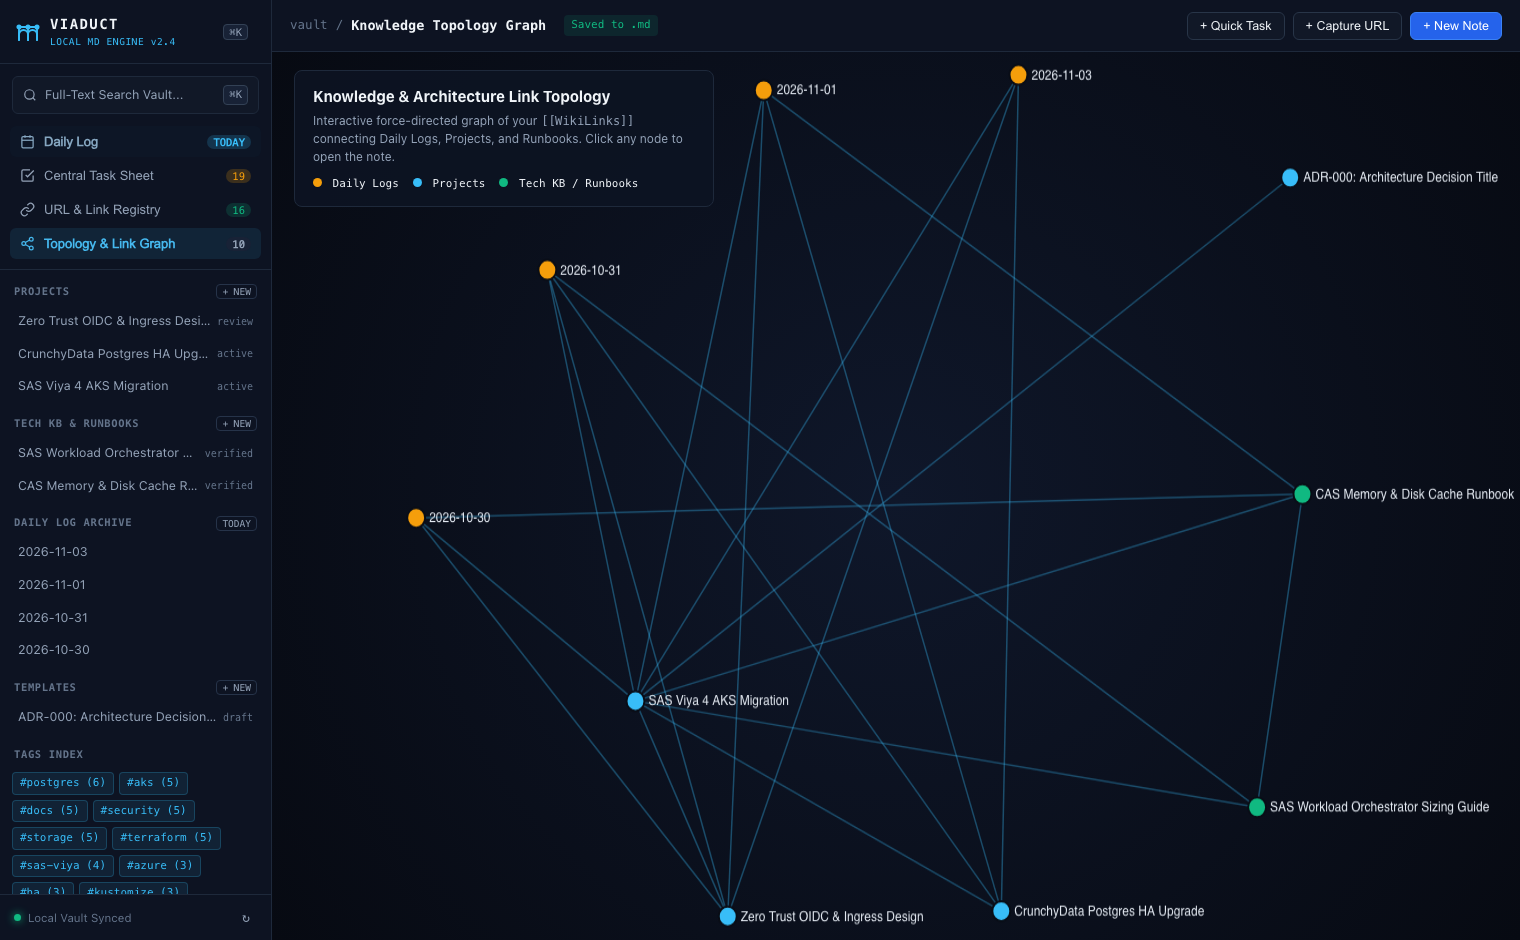
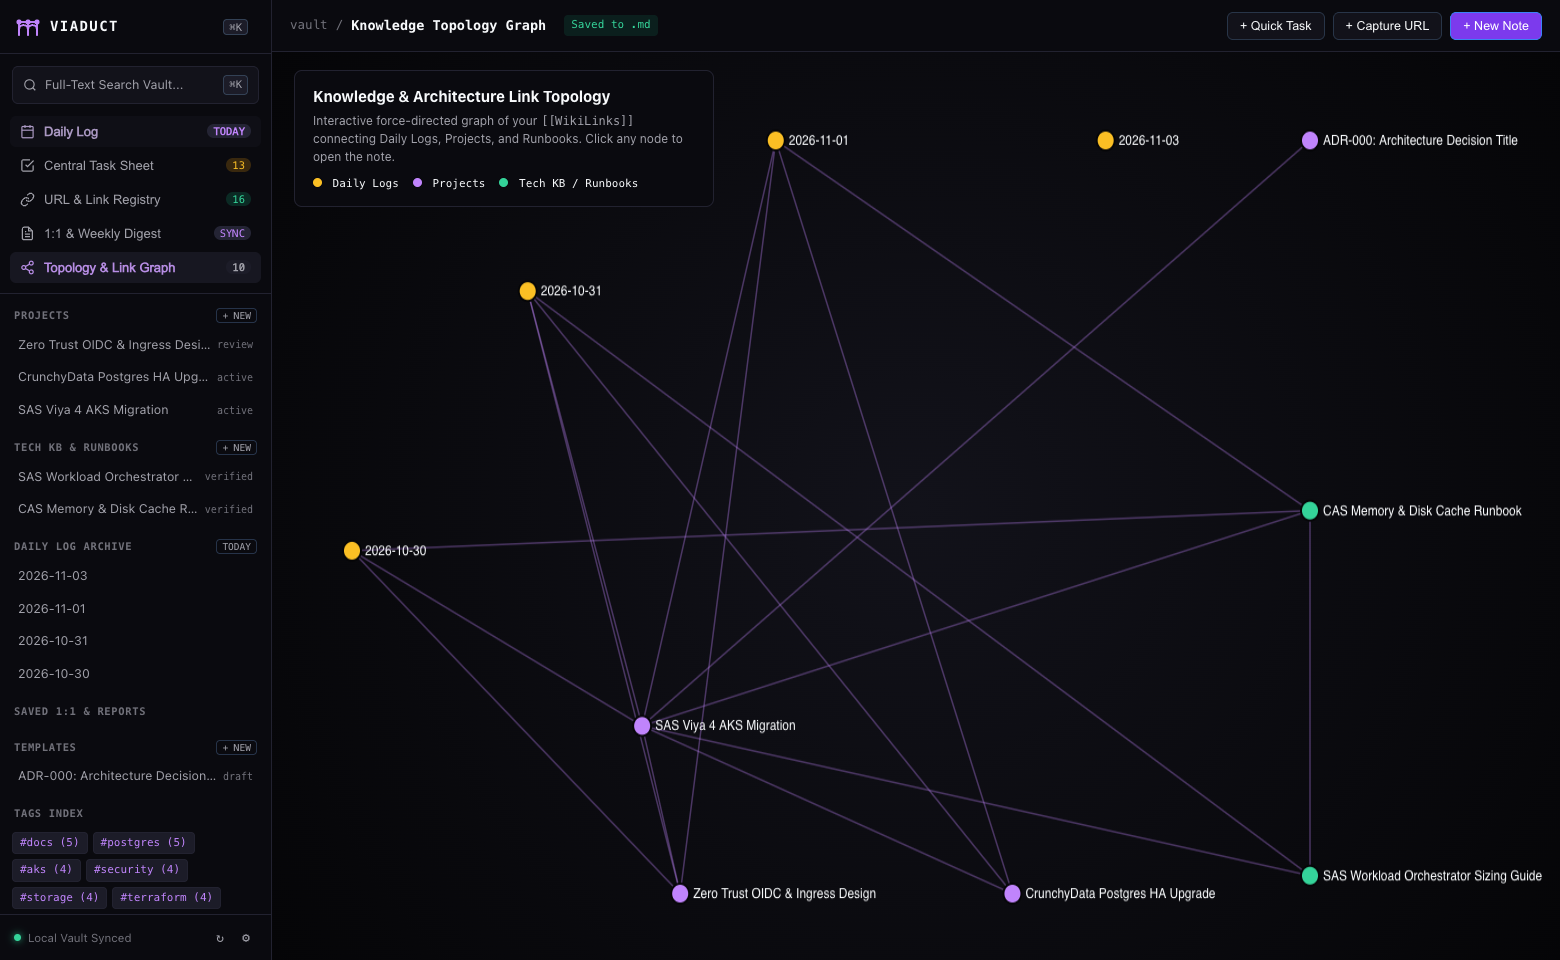
Update Knowledge Topology Graph theme colors, bounds, and screenshot

diff --git a/static/app.js b/static/app.js
@@ -1069,26 +1069,37 @@ async function loadGraphView() {
       e.target.vy -= fy;
     });
 
-    // Center gravity
+    // Center gravity & viewport bounds
     nodes.forEach((n) => {
-      n.vx += (canvas.width / 2 - n.x) * 0.005;
-      n.vy += (canvas.height / 2 - n.y) * 0.005;
+      n.vx += (canvas.width / 2 - n.x) * 0.009;
+      n.vy += (canvas.height / 2 - n.y) * 0.009;
       n.x += n.vx * 0.4;
       n.y += n.vy * 0.4;
       n.vx *= 0.75;
       n.vy *= 0.75;
+      n.x = Math.max(80, Math.min(canvas.width - 250, n.x));
+      n.y = Math.max(80, Math.min(canvas.height - 60, n.y));
     });
 
     // Render
     ctx.clearRect(0, 0, canvas.width, canvas.height);
 
+    const cs = getComputedStyle(document.documentElement);
+    const colAccent = cs.getPropertyValue("--accent-cyan").trim() || "#c084fc";
+    const colAmber = cs.getPropertyValue("--accent-amber").trim() || "#fbbf24";
+    const colEmerald = cs.getPropertyValue("--accent-emerald").trim() || "#34d399";
+    const colBg = cs.getPropertyValue("--bg-root").trim() || "#050507";
+    const colText = cs.getPropertyValue("--text-primary").trim() || "#f8fafc";
+
     edges.forEach((e) => {
       ctx.beginPath();
       ctx.moveTo(e.source.x, e.source.y);
       ctx.lineTo(e.target.x, e.target.y);
-      ctx.strokeStyle = "rgba(56, 189, 248, 0.35)";
+      ctx.strokeStyle = colAccent;
+      ctx.globalAlpha = 0.35;
       ctx.lineWidth = 1.5;
       ctx.stroke();
+      ctx.globalAlpha = 1.0;
     });
 
     nodes.forEach((n) => {
@@ -1096,16 +1107,16 @@ async function loadGraphView() {
       ctx.arc(n.x, n.y, 9, 0, Math.PI * 2);
       ctx.fillStyle =
         n.folder === "daily"
-          ? "#f59e0b"
+          ? colAmber
           : n.folder === "kb"
-          ? "#10b981"
-          : "#38bdf8";
+          ? colEmerald
+          : colAccent;
       ctx.fill();
-      ctx.strokeStyle = "#090d16";
+      ctx.strokeStyle = colBg;
       ctx.lineWidth = 2;
       ctx.stroke();
 
-      ctx.fillStyle = "#e2e8f0";
+      ctx.fillStyle = colText;
       ctx.font = "12px -apple-system, Inter, sans-serif";
       ctx.fillText(n.title, n.x + 13, n.y + 4);
     });

diff --git a/static/index.html b/static/index.html
@@ -4,7 +4,7 @@
   <meta charset="UTF-8" />
   <meta name="viewport" content="width=device-width, initial-scale=1.0" />
   <title>VIADUCT // Cloud Knowledge & Operations Vault</title>
-  <link rel="stylesheet" href="/styles.css?v=3.2" />
+  <link rel="stylesheet" href="/styles.css?v=3.3" />
 </head>
 <body>
   <div id="app" class="app-shell">
@@ -707,6 +707,6 @@
     </div>
   </div>
 
-  <script src="/app.js?v=3.2"></script>
+  <script src="/app.js?v=3.4"></script>
 </body>
 </html>

diff --git a/static/styles.css b/static/styles.css
@@ -1348,14 +1348,14 @@ html, body {
   flex: 1;
   width: 100%;
   height: 100%;
-  background: radial-gradient(circle at center, #0f172a 0%, #070a12 100%);
+  background: radial-gradient(circle at center, var(--bg-surface) 0%, var(--bg-root) 100%);
 }
 
 .graph-overlay {
   position: absolute;
   top: 18px;
   left: 22px;
-  background: rgba(13, 19, 34, 0.88);
+  background: var(--bg-sidebar);
   border: 1px solid var(--border-subtle);
   padding: 14px 18px;
   border-radius: 8px;
